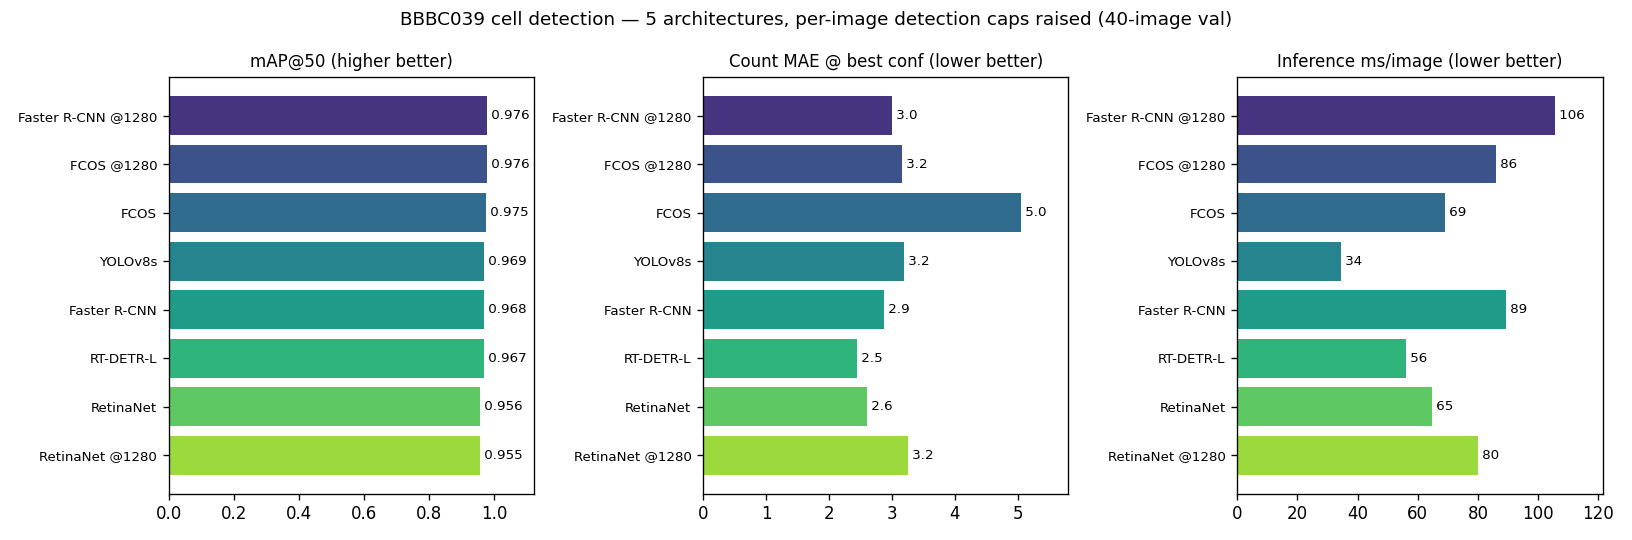
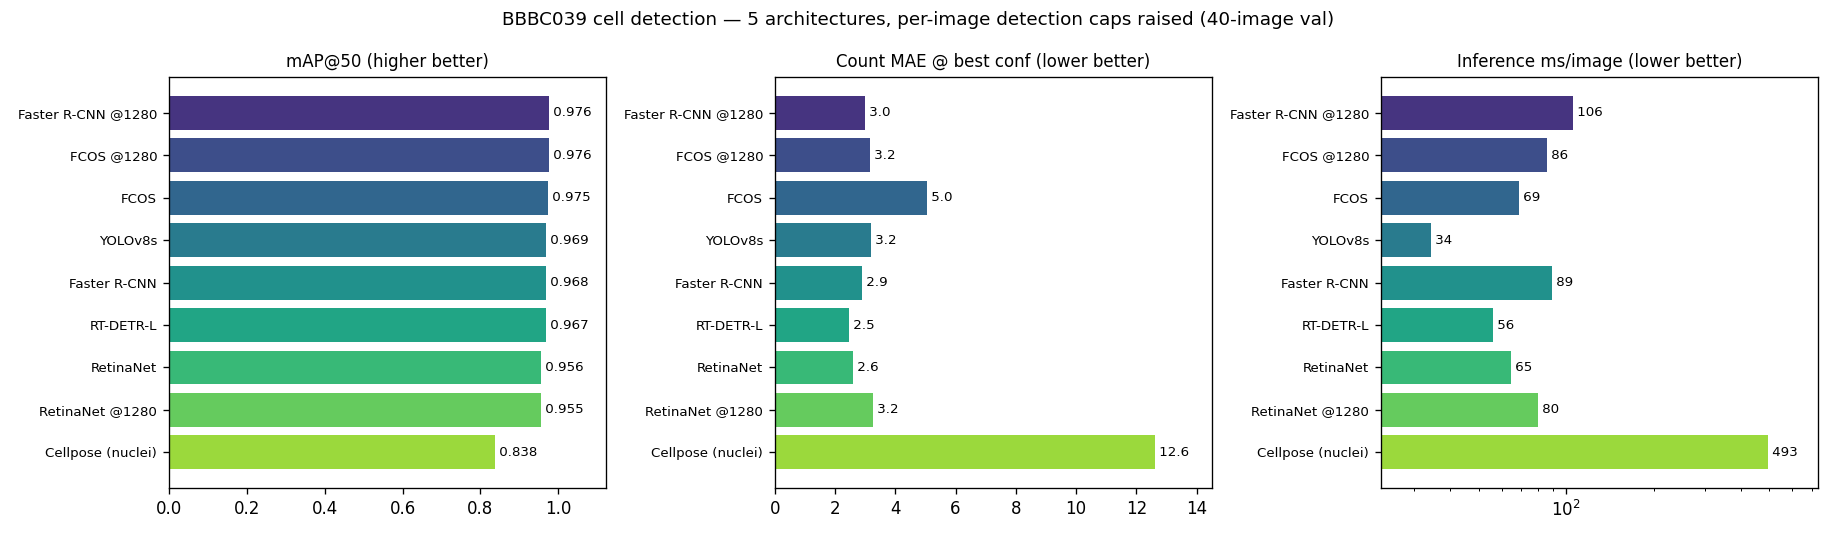
Add zero-shot Cellpose segmentation baseline
compare/cellpose_baseline.py: pretrained Cellpose 'nuclei' model, no BBBC039
training, scored on the same val split. Count = mask labels; boxes = per-label.

Result: F1@0.5 0.87, count MAE 12.6 (+12% systematic over-count), 493 ms/image
-- ~4x worse at counting than a detector trained 15-25 min on 160 images, and
5-15x slower. Cellpose wins only with no labels or when per-nucleus masks are
needed. Fine-tuned Cellpose left as follow-up.

diff --git a/compare/cellpose_baseline.py b/compare/cellpose_baseline.py
@@ -1,0 +1,118 @@
+"""Cellpose (instance segmentation) as a counting baseline — zero-shot, no training.
+
+    python compare/cellpose_baseline.py
+
+Runs the pretrained Cellpose `nuclei` model on the val split, derives a count
+(number of mask labels) and bounding boxes (one per label), and scores the same
+metrics as the detectors. Appends a "Cellpose (nuclei)" row to compare/results.json.
+
+Cellpose commits to one segmentation and emits no per-object confidence, so:
+  - mAP@50 is computed with every box scored 1.0 (its single operating point);
+  - precision / recall / F1 @ IoU 0.5 (greedy match) is the honest apples-to-apples
+    number vs. the detectors' tuned operating point.
+"""
+import json
+import pathlib
+import sys
+import time
+
+import cv2
+import numpy as np
+import torch
+from torchmetrics.detection import MeanAveragePrecision
+
+sys.path.insert(0, str(pathlib.Path(__file__).parent))
+from dataset import YoloDetectionDataset  # noqa: E402
+
+
+def masks_to_boxes(lbl):
+    boxes = []
+    for v in np.unique(lbl):
+        if v == 0:
+            continue
+        ys, xs = np.where(lbl == v)
+        boxes.append([xs.min(), ys.min(), xs.max() + 1, ys.max() + 1])
+    return np.array(boxes, dtype=np.float32).reshape(-1, 4)
+
+
+def pr_f1_at_iou(pred, gt, thr=0.5):
+    """greedy 1-to-1 matching, IoU >= thr."""
+    if len(pred) == 0 or len(gt) == 0:
+        return 0.0, 0.0, 0.0
+    pred, gt = torch.tensor(pred), torch.tensor(gt)
+    from torchvision.ops import box_iou
+    iou = box_iou(pred, gt).numpy()
+    matched_gt, tp = set(), 0
+    for pi in np.argsort(-iou.max(axis=1)):
+        gi = int(iou[pi].argmax())
+        if iou[pi, gi] >= thr and gi not in matched_gt:
+            matched_gt.add(gi)
+            tp += 1
+    prec = tp / len(pred)
+    rec = tp / len(gt)
+    f1 = 2 * prec * rec / (prec + rec) if prec + rec else 0.0
+    return prec, rec, f1
+
+
+def main():
+    from cellpose import models
+    ds = YoloDetectionDataset("dataset", "val", train=False)
+    model = models.Cellpose(gpu=torch.cuda.is_available(), model_type="nuclei")
+
+    metric = MeanAveragePrecision(iou_type="bbox", box_format="xyxy",
+                                  max_detection_thresholds=[10, 100, 500])
+    metric.warn_on_many_detections = False
+    gt_c, pred_c, precs, recs, f1s = [], [], [], [], []
+    t0 = time.time()
+    for i in range(len(ds)):
+        img = cv2.imread(str(ds.imgs[i]), cv2.IMREAD_UNCHANGED)
+        gray = img[..., 1] if img.ndim == 3 else img          # green channel = signal
+        lbl, _, _, _ = model.eval(gray, diameter=None, channels=[0, 0])
+        boxes = masks_to_boxes(lbl)
+        _, target = ds[i]
+        gt = target["boxes"].numpy()
+
+        metric.update(
+            [{"boxes": torch.tensor(boxes), "scores": torch.ones(len(boxes)),
+              "labels": torch.ones(len(boxes), dtype=torch.int64)}],
+            [{"boxes": torch.tensor(gt), "labels": target["labels"]}],
+        )
+        gt_c.append(len(gt))
+        pred_c.append(int(lbl.max()))
+        p, r, f = pr_f1_at_iou(boxes, gt, 0.5)
+        precs.append(p); recs.append(r); f1s.append(f)
+    dt = (time.time() - t0) / len(ds) * 1000
+
+    m = metric.compute()
+    gt_a, pc_a = np.array(gt_c), np.array(pred_c)
+    ae = np.abs(pc_a - gt_a)
+    nz = gt_a > 0
+    row = {
+        "mAP50": round(float(m["map_50"]), 4),
+        "mAP75": round(float(m["map_75"]), 4),
+        "mAR500": round(float(m["mar_500"]), 4),
+        "P@0.5": round(float(np.mean(precs)), 4),
+        "R@0.5": round(float(np.mean(recs)), 4),
+        "F1@0.5": round(float(np.mean(f1s)), 4),
+        "count_MAE@0.5": round(float(ae.mean()), 2),
+        "count_MAPE@0.5_pct": round(float((ae[nz] / gt_a[nz]).mean() * 100), 2),
+        "count_bias@0.5": int((pc_a - gt_a).sum()),
+        "best_conf": None,
+        "count_MAE@best": round(float(ae.mean()), 2),
+        "count_MAPE@best_pct": round(float((ae[nz] / gt_a[nz]).mean() * 100), 2),
+        "ms_per_image": round(dt, 1),
+    }
+
+    path = pathlib.Path("compare/results.json")
+    results = json.loads(path.read_text()) if path.exists() else {}
+    results["Cellpose (nuclei)"] = row
+    path.write_text(json.dumps(results, indent=2))
+
+    print("\nCellpose (nuclei), zero-shot, val split:")
+    for k, v in row.items():
+        print(f"  {k:<20} {v}")
+    print("\nappended -> compare/results.json")
+
+
+if __name__ == "__main__":
+    main()

diff --git a/compare/plot_results.py b/compare/plot_results.py
@@ -21,6 +21,8 @@ for ax, (key, title, fmt) in zip(axes, [
     ax.set_yticklabels(models, fontsize=8)
     ax.invert_yaxis()
     ax.set_title(title, fontsize=10)
+    if key == "ms_per_image" and max(vals) / min(vals) > 8:
+        ax.set_xscale("log")
     for b, v in zip(bars, vals):
         ax.text(v, b.get_y() + b.get_height() / 2, " " + fmt.format(v),
                 va="center", fontsize=8)

diff --git a/compare/RESULTS.md b/compare/RESULTS.md
@@ -1,8 +1,9 @@
-# Comparison study — YOLOv8s vs. 4 other detectors
+# Comparison study — YOLOv8s vs. 4 detectors + a segmentation baseline
 
 Does the detector choice matter for counting nuclei? Trained four alternatives
 on the **same** BBBC039 split, scored all five through **one** metric harness,
-then ran a fair-resolution rematch that **overturned the first conclusion.**
+ran a fair-resolution rematch that **overturned the first conclusion**, and
+added a zero-shot Cellpose segmentation baseline.
 
 > **Correction (this supersedes the earlier version of this file).** Rounds 1–2
 > reported Faster R-CNN and FCOS at mAP@50 ~0.84 and concluded "two-stage and
@@ -45,6 +46,32 @@ for the rematch (`model.transform.min_size/max_size`, same everything else,
 
 For reference, the same torchvision checkpoints **with COCO-default caps**:
 Faster R-CNN 0.839, FCOS 0.838, RetinaNet 0.881 — the numbers rounds 1–2 reported.
+
+## Segmentation baseline — Cellpose (zero-shot)
+
+The task's framing contrasts detection with segmentation, so: the pretrained
+Cellpose `nuclei` model, **no training on BBBC039**, auto-diameter, run on the
+same 40 val images. Count = number of mask labels; boxes = one per label.
+Cellpose commits to a single segmentation and emits no per-object score, so
+mAP@50 uses score 1.0 (its operating point) and the honest comparison is
+precision / recall / F1 at IoU 0.5.
+
+| | mAP@50¹ | P@0.5 | R@0.5 | F1@0.5 | count MAE | count bias | ms/img |
+|---|---|---|---|---|---|---|---|
+| Cellpose (nuclei), zero-shot | 0.838 | 0.83 | 0.92 | **0.87** | **12.6** | **+493** (+12 %) | 493 |
+| *trained detectors (range)* | *0.96–0.98* | — | — | *≈0.95+* | *2.5–3.3* | *±80–260 @best conf* | *34–106* |
+
+¹ score-1.0 operating point, not directly comparable to the detectors' swept mAP.
+
+**Cellpose zero-shot is decisively beaten by every trained detector** — F1 0.87
+vs. ~0.95+, count MAE 12.6 vs. 2.5–3.3, and it systematically **over-counts by
+12 %** (recall 0.92 is fine; precision 0.83 is not — it splits nuclei the
+detectors keep whole). It is also 5–15× slower (493 ms; the flow post-processing
+is the cost). What it buys that detection does not: a full instance mask per
+nucleus (area, shape, intensity), and it needs **zero labels** — which is the
+only situation where it wins here, since BBBC039 *has* labels. A Cellpose model
+*fine-tuned* on BBBC039 would be the fair segmentation-vs-detection fight and is
+left for future work.
 
 ## Findings
 
@@ -104,6 +131,11 @@ Faster R-CNN 0.839, FCOS 0.838, RetinaNet 0.881 — the numbers rounds 1–2 rep
   FCOS @1280 (0.927) and RetinaNet @800 (0.891) match or beat it once uncapped —
   the earlier "NMS discards touching nuclei" advantage was partly the other
   models being throttled upstream of NMS.
+- **When labels exist, train a detector — don't reach for the off-the-shelf
+  segmentation tool.** Zero-shot Cellpose (F1 0.87, count MAE 12.6) is ~4× worse
+  at counting than a detector trained for 15–25 min on 160 images, and 5–15×
+  slower. Cellpose earns its place only with *no* labels, or when you need the
+  per-nucleus mask (area/shape/intensity) that a bounding box can't give.
 
 ## Reproduce
 
@@ -120,6 +152,7 @@ python compare/train_tv.py --model fcos       --epochs 18 --imgsz 1280 --tag 128
 python compare/train_rtdetr.py --epochs 100 --imgsz 960     # converges ~ep 47
 # score all checkpoints (caps raised inside eval_all.py) + plot
 python compare/eval_all.py
+python compare/cellpose_baseline.py    # zero-shot segmentation baseline (pip install "cellpose<4")
 python compare/plot_results.py
 ```
 

diff --git a/README.md b/README.md
@@ -52,10 +52,13 @@ significance) — the torchvision models were re-trained at 1280 px too:
 | RT-DETR-L @960 | 0.967 | 0.935 | 0.910 | 2.5 | 56 |
 | RetinaNet @800 | 0.956 | 0.935 | 0.891 | 2.6 | 65 |
 | RetinaNet @1280 | 0.955 | 0.933 | 0.888 | 3.3 | 80 |
+| *Cellpose `nuclei`, zero-shot* | *0.84¹* | — | — | *12.6* | *493* |
 
-With **COCO-default caps** the same torchvision checkpoints score Faster R-CNN
-0.839 / FCOS 0.838 / RetinaNet 0.881 — which is what earlier versions of this
-README reported before the fair-resolution rematch exposed the cause.
+¹ Cellpose has no per-object score, so this is its single operating point (F1@0.5
+= 0.87), not comparable to the detectors' swept mAP. With **COCO-default caps**
+the torchvision checkpoints score Faster R-CNN 0.839 / FCOS 0.838 / RetinaNet
+0.881 — what earlier versions of this README reported before the rematch exposed
+the cause.
 
 ![model comparison](showcase/model_comparison.png)
 
@@ -81,6 +84,10 @@ README reported before the fair-resolution rematch exposed the cause.
   swaps in another detector counts wrong.
 - **YOLOv8s now has the *lowest* recall of the five** (mAR 0.786). Its edge is
   latency (34 ms, 1.6–3× faster) and a one-package workflow, not accuracy.
+- **Zero-shot Cellpose (the domain-standard segmentation tool) loses badly** —
+  F1 0.87, count MAE 12.6, +12 % systematic over-count, 493 ms/image. A detector
+  trained 15–25 min on 160 labelled images is ~4× more accurate at counting.
+  Cellpose wins only when you have *no* labels or need per-nucleus masks.
 
 #### Which model to use
 
@@ -119,9 +126,10 @@ the obvious next experiment. CPU-only inference is viable for one-off counts
    was *not* the lever; the per-image detection cap was.
 2. **RT-DETR at 1280 + longer schedule** on a ≥16 GB GPU — does it pull clear of
    the pack, or is the 0.97 plateau real?
-3. **Detection vs. segmentation baseline.** Add Cellpose / StarDist (the
-   bioimaging-standard instance-segmentation tools) and compare count MAE — the
-   comparison the task framing implies but this study skipped.
+3. ~~**Detection vs. segmentation baseline.**~~ ✅ Done — zero-shot Cellpose
+   `nuclei` scores F1@0.5 0.87 / count MAE 12.6, ~4× worse than the trained
+   detectors. Open follow-up: a Cellpose model *fine-tuned* on BBBC039 (the fair
+   trained-vs-trained fight); add StarDist.
 4. **Tiling (SAHI)** — 512 px tiles at 20 % overlap; may lift recall further on
    the densest fields without a resolution increase.
 5. **Cross-dataset generalisation.** Train on BBBC039, evaluate zero-shot on
